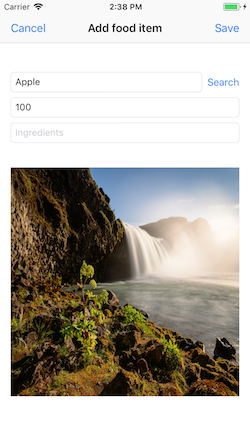
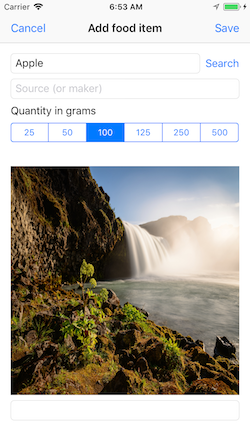
a4 updates

diff --git a/graded-work/assign4.md b/graded-work/assign4.md
@@ -207,6 +207,8 @@ Add user interface controls for all except photo. The first three controls shoul
 The "quantity" UI should be a segmented control, with button segments for these values:  
 25, 50, 100, 125, 250, 500
 
+![Quantity selector](images/a4-item-add-quantity.png)
+
 > Tips about the segmented control:  
 > The `selectedSegmentIndex` property has the tapped/touched segment.  
 > The `titleForSegment(at:)` method has the text title for a segment index.  
@@ -244,7 +246,15 @@ As mentioned above, the *picker controller* is built in, so we do not have to wr
 
 Our initial goal is to get and display a photo. The user interface will include a button that presents the picker, and an image view that shows the photo. 
 
-Edit the scene. Add a button that will begin the photo take/pick action. Create an action connection to the controller code. Add an image view that can display a photo. Create an outlet connection to the controller code. 
+Edit the scene. Add a button that will begin the photo take/pick action. 
+
+> If you wish to use an image for the button, then do this:  
+> Locate and import suitable icon/image to the asset catalog; maybe a web search can help with this task.  
+> On the button's attributes inspector, change the "Type" to "Custom".  
+> Then, in the "Image" dropdown list, select the icon/image that you imported.  
+> Size to fit.  
+
+From the button, create an action connection to the controller code. Add an image view that can display a photo. Create an outlet connection to the controller code. 
 
 The `egCamera` code example in the [course's code repository](https://github.com/dps923/fall2018/tree/master/Week11) has the essential info needed to understand and use the camera and photo library. 
 
@@ -347,13 +357,13 @@ At this point, your app should be able to enable the user to add a new food item
 
 ### Get the network involved
 
-<p style="color: red;">The following is a preview of what we'll do. Updates are coming soon.</p>
-
-Several tasks... (major sections are below)
+This will be a lengthy task, partly because you will be learning a number of techniques. We suggest that you read/skim the content below before doing the work, so that you will know what's coming. 
 
 The `egWebApiGet` code example in the [course's code repository](https://github.com/dps923/fall2018/tree/master/Week11) has the essential info needed to understand and use the network.
 
 <mark>( more to come )</mark>
+
+<p style="color: red;">The following is a preview of what we'll do. Updates are coming soon.</p>
 
 #### Get the web API templated code
 
